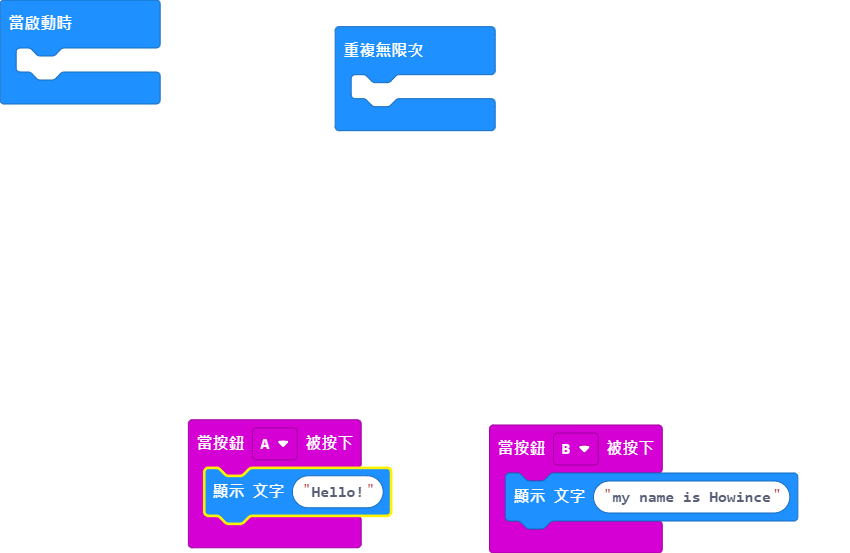
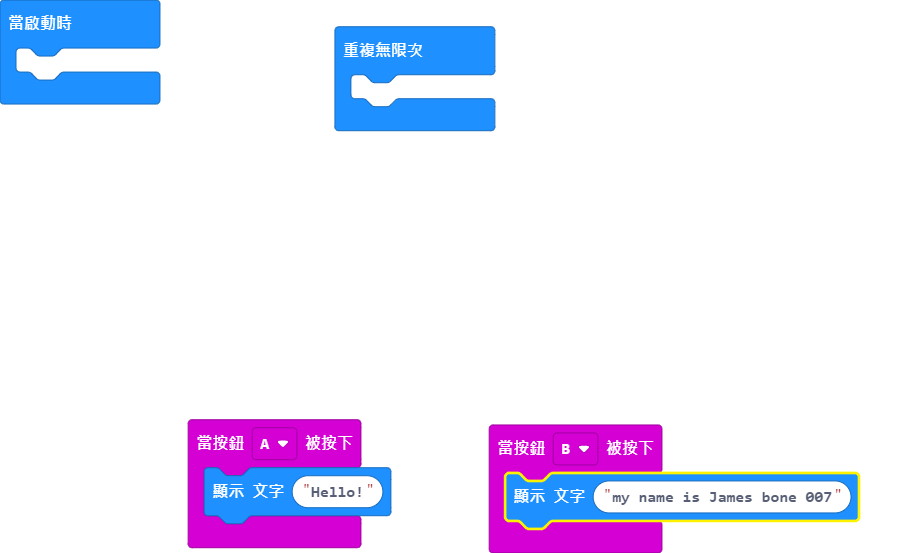
更新 main.blocks, main.ts

diff --git a/main.ts b/main.ts
@@ -2,7 +2,7 @@ input.onButtonPressed(Button.A, function () {
     basic.showString("Hello!")
 })
 input.onButtonPressed(Button.B, function () {
-    basic.showString("my name is Howince")
+    basic.showString("my name is James bone 007")
 })
 basic.forever(function () {
 	
